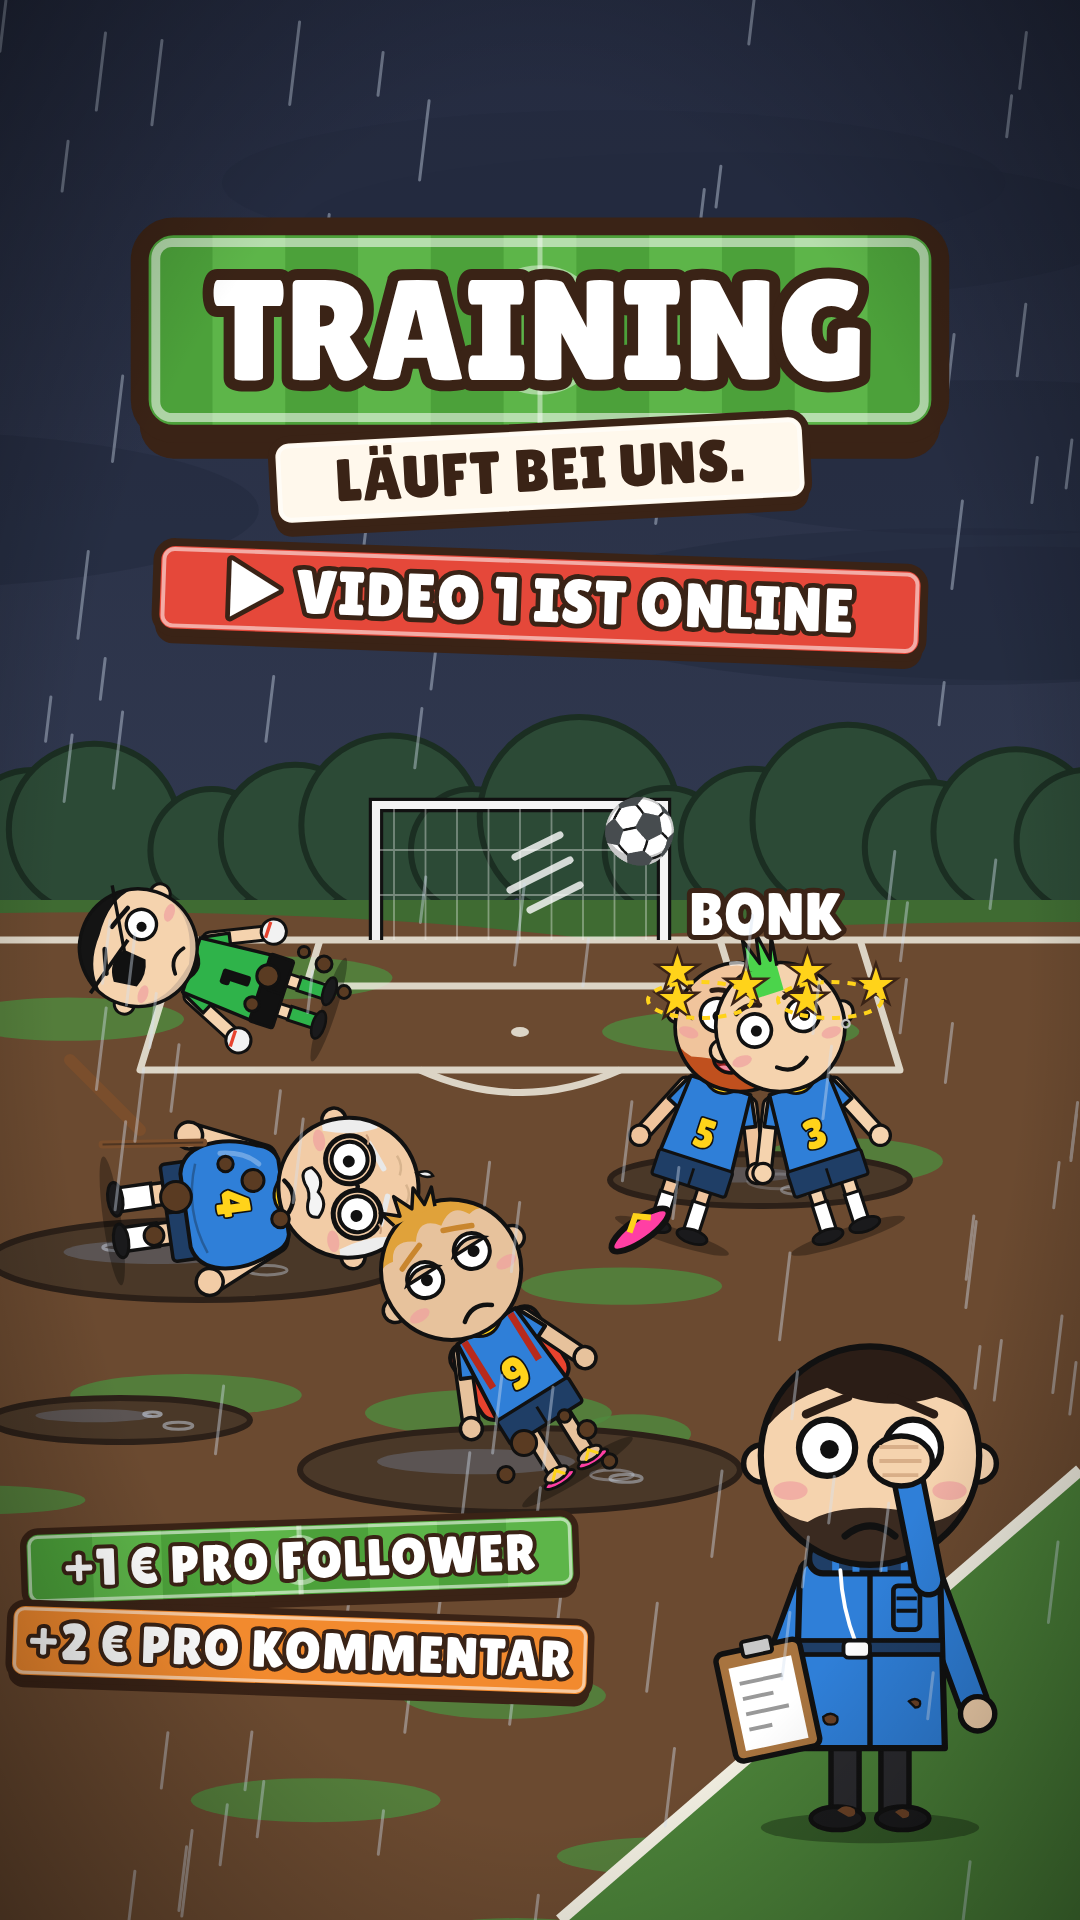
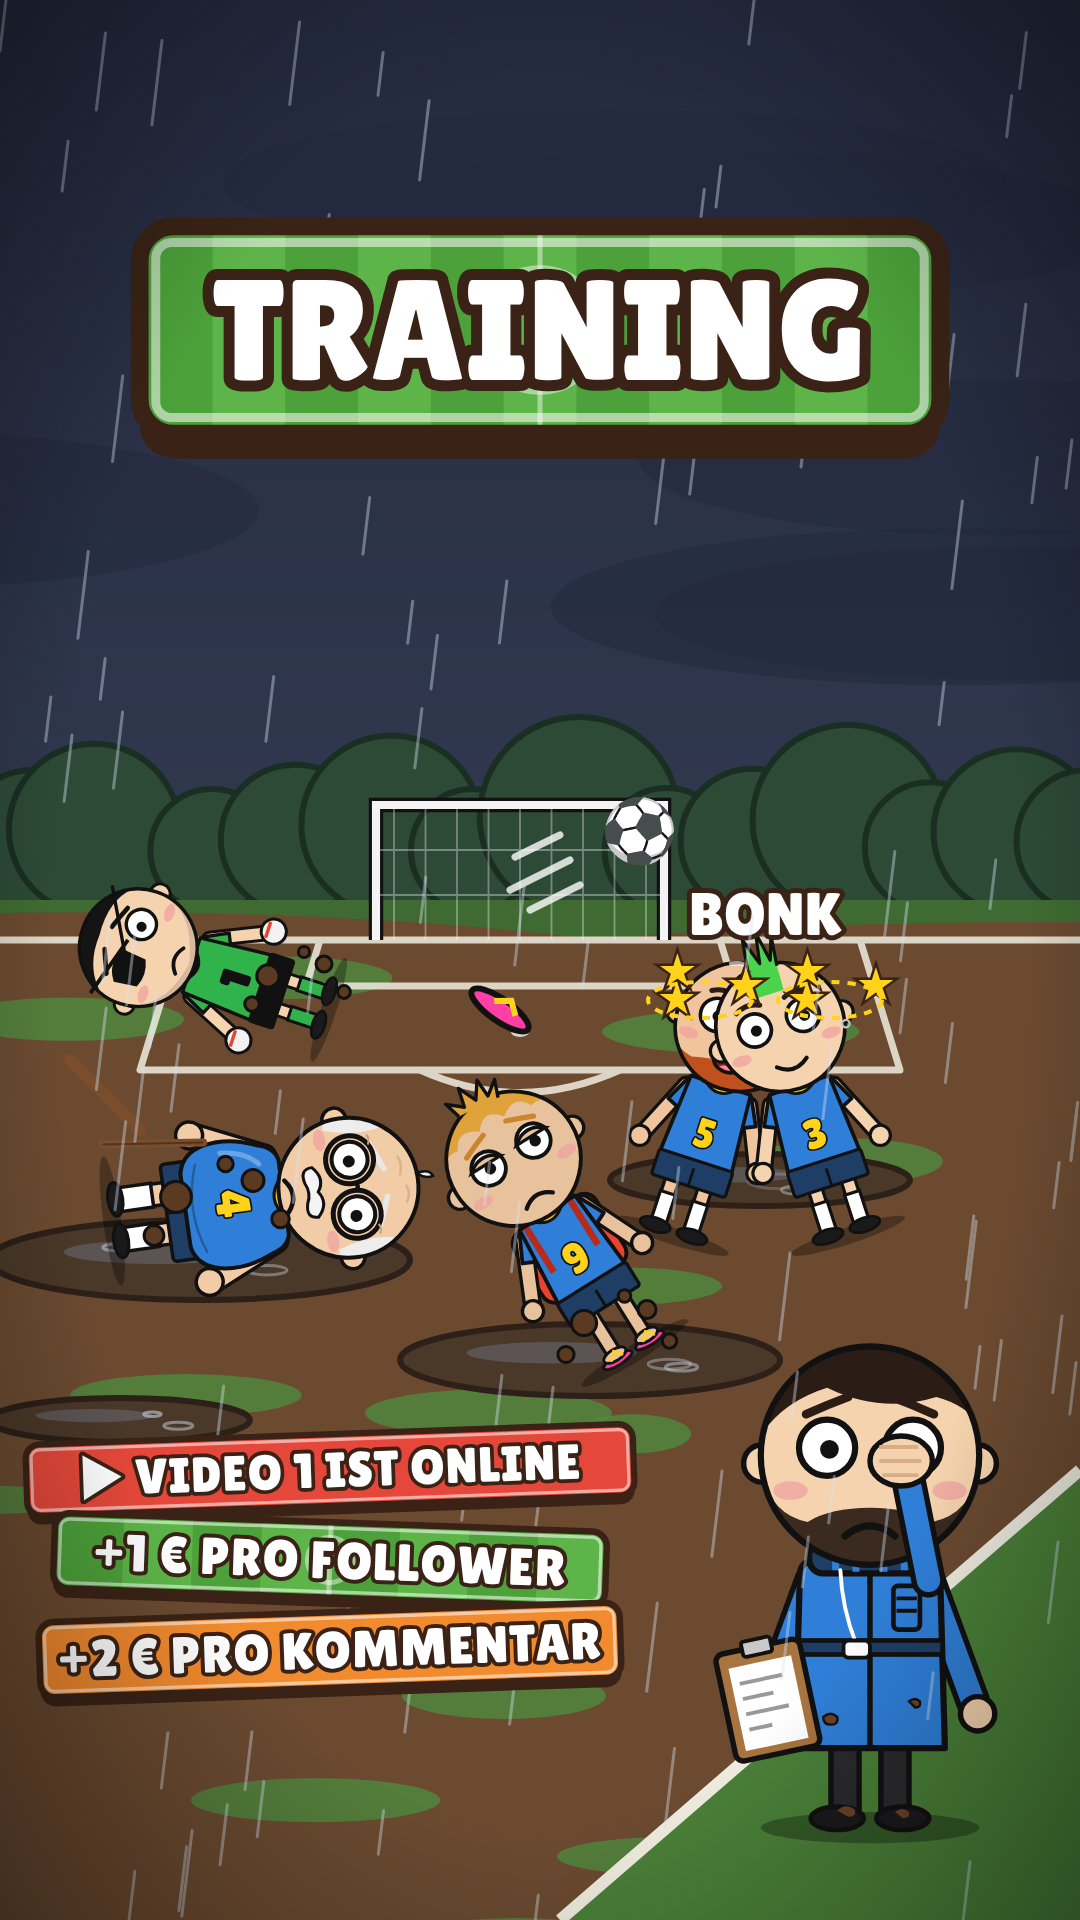
Story: remove 'Läuft bei uns', move video-online hint to the bottom info boxes
Claude-Session: https://claude.ai/code/session_01McNdgat1bkabVqQjpt9yqv

Changed region(s): [[0.0, 0.5, 0.7333, 0.9062], [0.1222, 0.1875, 0.8556, 0.375]]

diff --git a/tiktok/src/story_training.js b/tiktok/src/story_training.js
@@ -16,7 +16,7 @@ const {chromium} = require('playwright');
       + `<ellipse cx="${x}" cy="${y}" rx="52" ry="18" fill="none" stroke="#FFD31A" stroke-width="4" stroke-dasharray="8 8"/>`;
     const motion = (x, y) => `<g stroke="#fff" stroke-width="7" stroke-linecap="round" opacity=".8"><path d="M${x - 70} ${y + 30} l-60 30"/><path d="M${x - 60} ${y + 55} l-50 25"/><path d="M${x - 80} ${y + 5} l-45 22"/></g>`;
 
-    let s = field(t, 900, {goalX: 520, puddles: [[200, 1260, 210, 40], [760, 1180, 150, 26], [520, 1470, 220, 42], [120, 1420, 130, 22]]});
+    let s = field(t, 900, {goalX: 520, puddles: [[200, 1260, 210, 40], [760, 1180, 150, 26], [590, 1360, 190, 36], [120, 1420, 130, 22]]});
     // Ball schlaegt oben rechts ein, Vlad fliegt in die andere Ecke
     s += place(vlad({mood: 'sad'}), 330, 1010, 0.42).replace('<g transform="translate(330 1010)', '<g transform="translate(330 1010) rotate(-72)');
     s += splash(300, 1000, 0.8);
@@ -29,8 +29,8 @@ const {chromium} = require('playwright');
     s += rot(place(opa({mood: 'sad'}), 190, 1290, 0.5), 190, 1210, 82);
     s += `<path d="M70 1060 L140 1130" stroke="#7A4E2C" stroke-width="12" stroke-linecap="round"/>` + splash(220, 1230, 1.1);
     // Bus-Typ rutscht aus, ein Flip-Flop fliegt
-    s += rot(place(busguy({mood: 'sad'}), 520, 1490, 0.5), 520, 1380, -32);
-    s += `<g transform="translate(640 1230) rotate(-35)"><ellipse rx="34" ry="11" fill="#FF3FA4" stroke="#111" stroke-width="6"/><path d="M-10 -4 L4 -14 L16 -4" stroke="#FFD31A" stroke-width="6" fill="none"/></g>` + splash(560, 1470, 0.9);
+    s += rot(place(busguy({mood: 'sad'}), 580, 1370, 0.48), 580, 1265, -32);
+    s += `<g transform="translate(500 1010) rotate(35)"><ellipse rx="34" ry="11" fill="#FF3FA4" stroke="#111" stroke-width="6"/><path d="M-10 -4 L4 -14 L16 -4" stroke="#FFD31A" stroke-width="6" fill="none"/></g>` + splash(620, 1350, 0.9);
     // Seitenrand vorne rechts mit dem Trainer (Facepalm, Klemmbrett)
     s += `<path d="M560 1920 L1080 1470 L1080 1920 Z" fill="#4A8038"/><path d="M560 1920 L1080 1470" stroke="#F0EDE0" stroke-width="12"/>`;
     const facepalm = `<path d="M325 385 L300 260" stroke="#111" stroke-width="44" stroke-linecap="round"/>
@@ -44,10 +44,9 @@ const {chromium} = require('playwright');
     s += rain(t, 150, 0.4);
     // Texte (Story-Sicherheitsbereich: oben ~250 px, unten ~260 px frei)
     s += badge(540, 330, 'TRAINING', {kind: 'pitch', fs: 110, pad: 80});
-    s += badge(540, 470, 'LÄUFT BEI UNS.', {fs: 46, rot: -3});
-    s += badge(540, 600, '▶ VIDEO 1 IST ONLINE', {kind: 'red', fs: 48, rot: 2});
-    s += badge(300, 1560, '+1 € PRO FOLLOWER', {kind: 'pitch', fs: 40, rot: -2});
-    s += badge(300, 1650, '+2 € PRO KOMMENTAR', {kind: 'orange', fs: 40, rot: 2});
+    s += badge(330, 1470, '▶ VIDEO 1 IST ONLINE', {kind: 'red', fs: 38, rot: -2});
+    s += badge(330, 1560, '+1 € PRO FOLLOWER', {kind: 'pitch', fs: 40, rot: 2});
+    s += badge(330, 1650, '+2 € PRO KOMMENTAR', {kind: 'orange', fs: 40, rot: -2});
     document.getElementById('root').innerHTML = `<defs><linearGradient id="skyG" x1="0" y1="0" x2="0" y2="1"><stop offset="0" stop-color="#1E2438"/><stop offset="1" stop-color="#46506A"/></linearGradient>
       <radialGradient id="vig" cx=".5" cy=".5" r=".75"><stop offset=".6" stop-color="#000" stop-opacity="0"/><stop offset="1" stop-color="#000" stop-opacity=".45"/></radialGradient></defs>${s}<rect width="1080" height="1920" fill="url(#vig)"/>`;
   });
